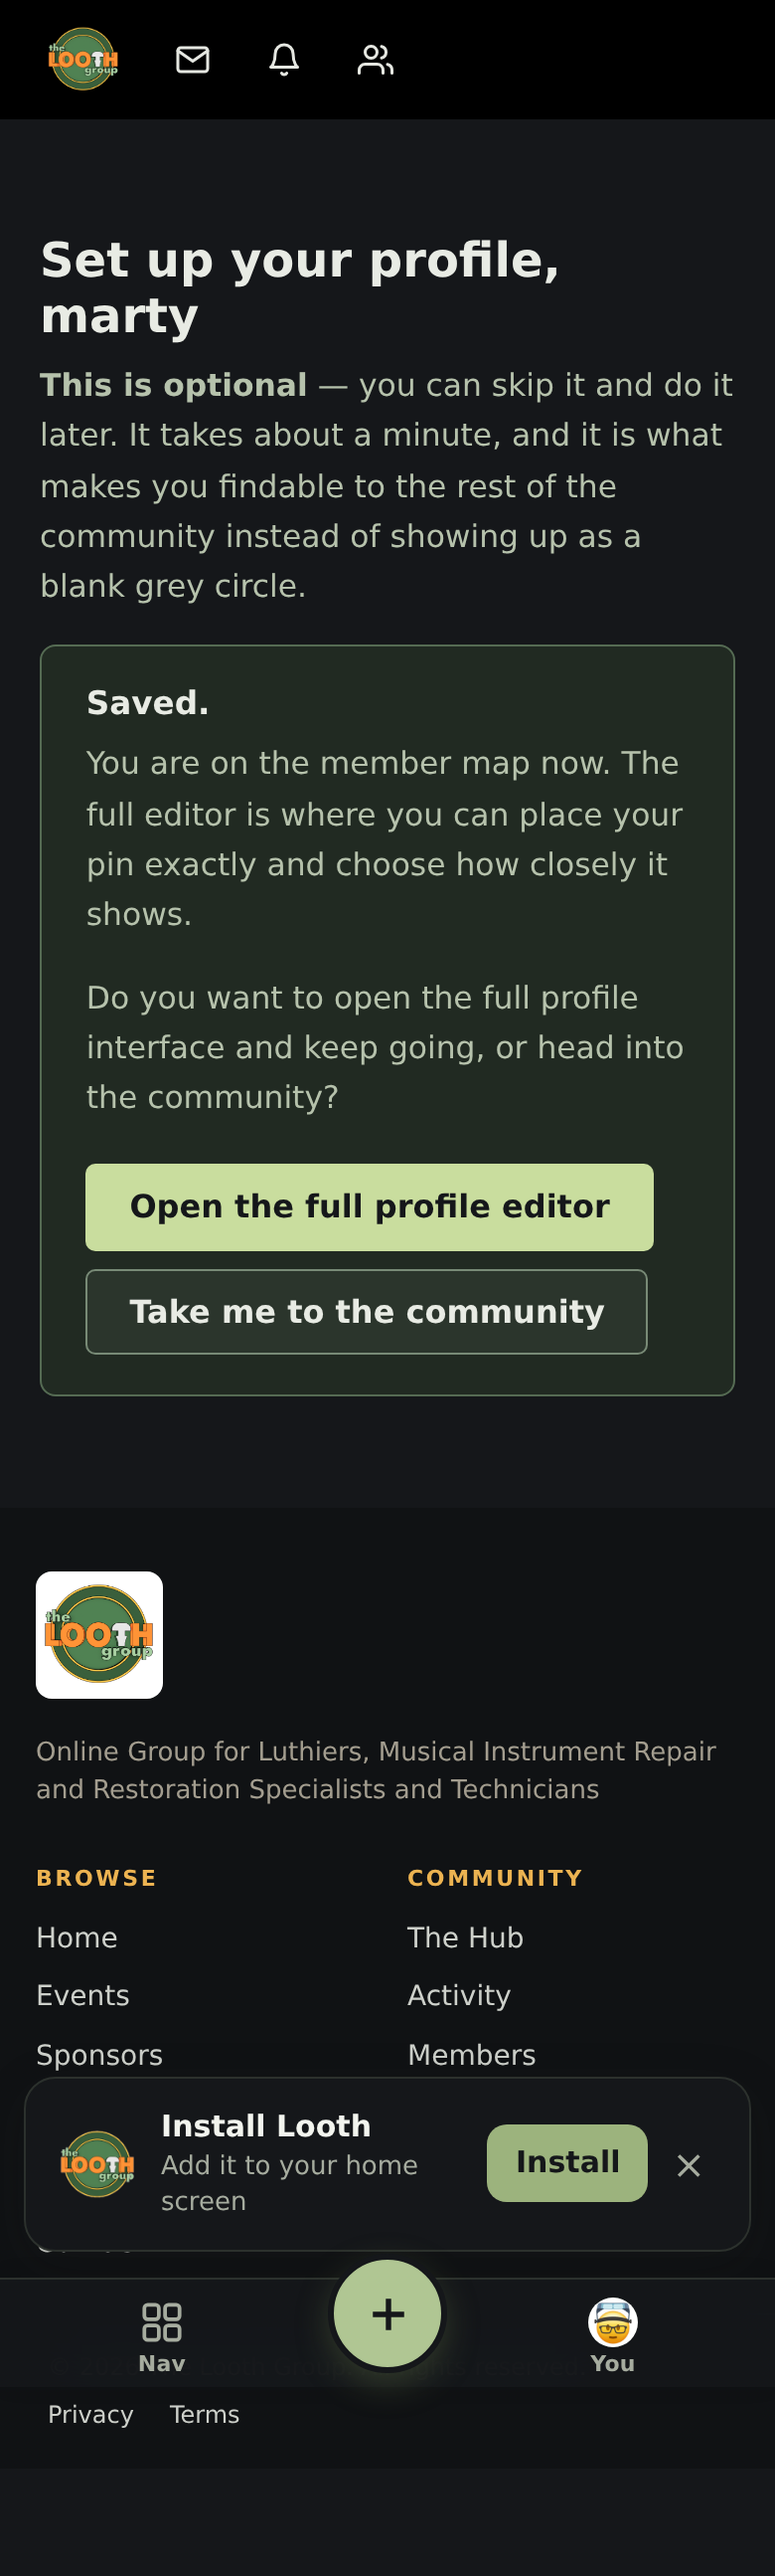
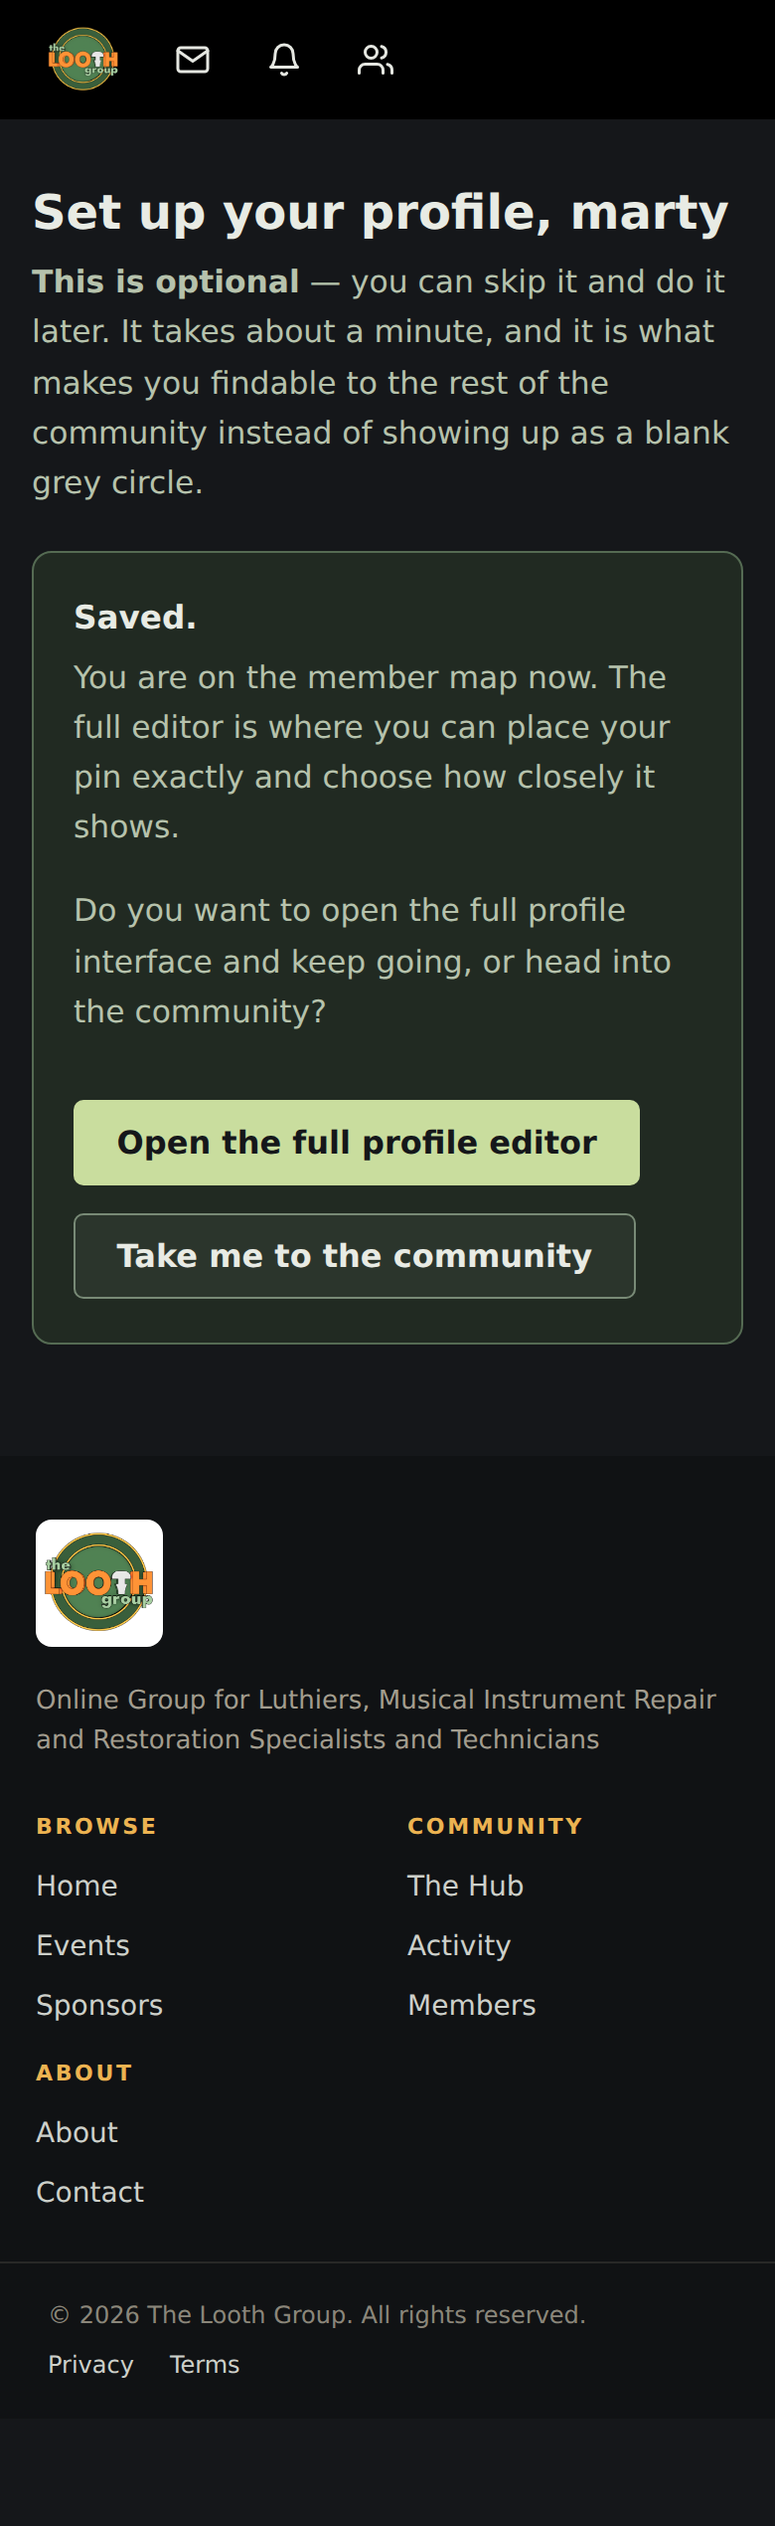
profile setup: spread the container per Ian, and stop the app chrome covering it
Ian, 2026-08-16, on the themes page: dark mode APPROVED ("Dark mode great for
signup screen"), with one revision — "Can we spread the container a bit. It's
cramped."

WIDER AND ROOMIER, both widths: .wrap 560 → 680px with a deeper bottom margin,
card padding 1.4/1.6em → 2/2.2em, label rhythm .9 → 1.5em, privacy inset 1.1 →
1.8em above and 1.3/1.4em within, actions 1.3 → 2em, inputs and the found panel
loosened to match, corners 8 → 10px.

BUT NOT ON A PHONE, where "generous" would have made it worse. 2.2em of card
padding either side of a 390px screen is not generosity, it is a narrower column
— the same air that opens the desktop card squeezes the mobile one. A ≤560px
block trims the GUTTERS while keeping the vertical rhythm, which is where the
cramped feeling actually came from.

⚠ AND THE FIRST RE-SHOOT WAS UNUSABLE, which the picture showed and the numbers
never would. The docroot injects /pwa.js into these snapshots; it mounts a fixed
bottom tabbar and an "Install Looth" banner, and on a tall captureBeyondViewport
stitch those render at their VIEWPORT position — straight across the middle of
the image. On mobile they sat directly on top of the privacy dials, which are the
control Ian is being asked to look at. A picture that hides its own subject under
someone else's furniture is worse than no picture, and this is the second time
this banner has landed on exactly the control a mock was built to show.
[…]

diff --git a/footer-mockups/profiles-alive/built/saved.html b/footer-mockups/profiles-alive/built/saved.html
@@ -5,15 +5,15 @@
 <link rel="stylesheet" href="/lg-shared/site-header.css?v=1785529924">
 <style>
   body{font-family:system-ui,sans-serif;background:#f6f6f2;margin:0;color:#1A1E12}
-  .wrap{max-width:560px;margin:56px auto;padding:0 1.25em}
+  .wrap{max-width:680px;margin:56px auto 72px;padding:0 1.5em}
   h2{margin:.2em 0 .35em}
   .lede{margin:0 0 1.1em;color:#3c4a28;font-size:.98em;line-height:1.6}
-  .card{padding:1.4em 1.6em;background:#d4e0b8;border:1px solid #87986A;border-radius:8px}
-  label{font-size:.92em;font-weight:600;display:block;margin-top:.9em}
-  .hint{font-size:.85em;color:#3c4a28;margin:.15em 0 .35em;line-height:1.5}
-  input[type=text]{width:100%;box-sizing:border-box;padding:.7em .8em;border:1px solid #87986A;
+  .card{padding:2em 2.2em;background:#d4e0b8;border:1px solid #87986A;border-radius:10px}
+  label{font-size:.92em;font-weight:600;display:block;margin-top:1.5em}
+  .hint{font-size:.85em;color:#3c4a28;margin:.2em 0 .6em;line-height:1.55}
+  input[type=text]{width:100%;box-sizing:border-box;padding:.8em .9em;border:1px solid #87986A;
     border-radius:5px;font-size:1em;background:#fff;color:#1A1E12;font-family:inherit}
-  .photorow{display:flex;align-items:center;gap:12px;margin:.45em 0 .2em}
+  .photorow{display:flex;align-items:center;gap:14px;margin:.5em 0 .3em}
   .avi{width:56px;height:56px;flex:0 0 56px;border-radius:50%;background:#c9c5b6;overflow:hidden;
     display:flex;align-items:center;justify-content:center}
   .avi img{width:100%;height:100%;object-fit:cover;display:block}
@@ -23,7 +23,7 @@
   input[type=file]{position:absolute;left:-9999px}
   /* Ian: skip is FIRST-CLASS. Same size, same row, same weight as Save — a
      different colour, not a lesser status. */
-  .actions{display:flex;flex-wrap:wrap;gap:.6em;margin-top:1.3em}
+  .actions{display:flex;flex-wrap:wrap;gap:.85em;margin-top:2em}
   .btn{padding:.7em 1.3em;border-radius:5px;font-size:1em;font-family:inherit;font-weight:600;
     cursor:pointer;border:1px solid transparent;text-decoration:none;display:inline-block}
   .btn--go{background:#1A1E12;color:#fff}
@@ -34,16 +34,23 @@
   .msg.ok{color:#3f5c22}
   .addr{font-family:ui-monospace,SFMono-Regular,Menlo,monospace;background:#eef3e2;
     padding:.05em .35em;border-radius:3px}
-  .privacy{margin-top:1.1em;padding:.9em 1em;background:#eef3e2;border:1px solid #c3d2a4;
+  .privacy{margin-top:1.8em;padding:1.3em 1.4em;background:#eef3e2;border:1px solid #c3d2a4;
     border-radius:6px}
-  .privacy__h{font-weight:700;font-size:.94em;margin-bottom:.2em}
+  .privacy__h{font-weight:700;font-size:.94em;margin-bottom:.35em}
   .privacy label{margin-top:.55em}
-  select{width:100%;box-sizing:border-box;padding:.6em .7em;border:1px solid #87986A;
+  select{width:100%;box-sizing:border-box;padding:.7em .8em;border:1px solid #87986A;
     border-radius:5px;font-size:1em;background:#fff;color:#1A1E12;font-family:inherit}
-  .found{padding:1.2em 1.4em;background:#fff;border:1px solid #e3ddd0;border-radius:8px;margin-top:1em}
+  .found{padding:1.7em 1.9em;background:#fff;border:1px solid #e3ddd0;border-radius:10px;margin-top:1.4em}
   .found h3{margin:0 0 .5em;font-size:1.02em}
   .found ol{margin:.4em 0 0;padding-left:1.2em}
   .found li{margin:.35em 0;line-height:1.55;font-size:.95em}
+
+  @media (max-width:560px){
+    .wrap{margin:32px auto 56px;padding:0 1em}
+    .card{padding:1.6em 1.25em}
+    .privacy{padding:1.15em 1em}
+    .found{padding:1.4em 1.25em}
+  }
 
   /* ── DARK ─────────────────────────────────────────────────────────────────
      Ian, 2026-08-16, from a screenshot: the section headers were invisible.

diff --git a/footer-mockups/profiles-alive/built/skipped.html b/footer-mockups/profiles-alive/built/skipped.html
@@ -5,15 +5,15 @@
 <link rel="stylesheet" href="/lg-shared/site-header.css?v=1785529924">
 <style>
   body{font-family:system-ui,sans-serif;background:#f6f6f2;margin:0;color:#1A1E12}
-  .wrap{max-width:560px;margin:56px auto;padding:0 1.25em}
+  .wrap{max-width:680px;margin:56px auto 72px;padding:0 1.5em}
   h2{margin:.2em 0 .35em}
   .lede{margin:0 0 1.1em;color:#3c4a28;font-size:.98em;line-height:1.6}
-  .card{padding:1.4em 1.6em;background:#d4e0b8;border:1px solid #87986A;border-radius:8px}
-  label{font-size:.92em;font-weight:600;display:block;margin-top:.9em}
-  .hint{font-size:.85em;color:#3c4a28;margin:.15em 0 .35em;line-height:1.5}
-  input[type=text]{width:100%;box-sizing:border-box;padding:.7em .8em;border:1px solid #87986A;
+  .card{padding:2em 2.2em;background:#d4e0b8;border:1px solid #87986A;border-radius:10px}
+  label{font-size:.92em;font-weight:600;display:block;margin-top:1.5em}
+  .hint{font-size:.85em;color:#3c4a28;margin:.2em 0 .6em;line-height:1.55}
+  input[type=text]{width:100%;box-sizing:border-box;padding:.8em .9em;border:1px solid #87986A;
     border-radius:5px;font-size:1em;background:#fff;color:#1A1E12;font-family:inherit}
-  .photorow{display:flex;align-items:center;gap:12px;margin:.45em 0 .2em}
+  .photorow{display:flex;align-items:center;gap:14px;margin:.5em 0 .3em}
   .avi{width:56px;height:56px;flex:0 0 56px;border-radius:50%;background:#c9c5b6;overflow:hidden;
     display:flex;align-items:center;justify-content:center}
   .avi img{width:100%;height:100%;object-fit:cover;display:block}
@@ -23,7 +23,7 @@
   input[type=file]{position:absolute;left:-9999px}
   /* Ian: skip is FIRST-CLASS. Same size, same row, same weight as Save — a
      different colour, not a lesser status. */
-  .actions{display:flex;flex-wrap:wrap;gap:.6em;margin-top:1.3em}
+  .actions{display:flex;flex-wrap:wrap;gap:.85em;margin-top:2em}
   .btn{padding:.7em 1.3em;border-radius:5px;font-size:1em;font-family:inherit;font-weight:600;
     cursor:pointer;border:1px solid transparent;text-decoration:none;display:inline-block}
   .btn--go{background:#1A1E12;color:#fff}
@@ -34,16 +34,23 @@
   .msg.ok{color:#3f5c22}
   .addr{font-family:ui-monospace,SFMono-Regular,Menlo,monospace;background:#eef3e2;
     padding:.05em .35em;border-radius:3px}
-  .privacy{margin-top:1.1em;padding:.9em 1em;background:#eef3e2;border:1px solid #c3d2a4;
+  .privacy{margin-top:1.8em;padding:1.3em 1.4em;background:#eef3e2;border:1px solid #c3d2a4;
     border-radius:6px}
-  .privacy__h{font-weight:700;font-size:.94em;margin-bottom:.2em}
+  .privacy__h{font-weight:700;font-size:.94em;margin-bottom:.35em}
   .privacy label{margin-top:.55em}
-  select{width:100%;box-sizing:border-box;padding:.6em .7em;border:1px solid #87986A;
+  select{width:100%;box-sizing:border-box;padding:.7em .8em;border:1px solid #87986A;
     border-radius:5px;font-size:1em;background:#fff;color:#1A1E12;font-family:inherit}
-  .found{padding:1.2em 1.4em;background:#fff;border:1px solid #e3ddd0;border-radius:8px;margin-top:1em}
+  .found{padding:1.7em 1.9em;background:#fff;border:1px solid #e3ddd0;border-radius:10px;margin-top:1.4em}
   .found h3{margin:0 0 .5em;font-size:1.02em}
   .found ol{margin:.4em 0 0;padding-left:1.2em}
   .found li{margin:.35em 0;line-height:1.55;font-size:.95em}
+
+  @media (max-width:560px){
+    .wrap{margin:32px auto 56px;padding:0 1em}
+    .card{padding:1.6em 1.25em}
+    .privacy{padding:1.15em 1em}
+    .found{padding:1.4em 1.25em}
+  }
 
   /* ── DARK ─────────────────────────────────────────────────────────────────
      Ian, 2026-08-16, from a screenshot: the section headers were invisible.

diff --git a/footer-mockups/profiles-alive/built/step.html b/footer-mockups/profiles-alive/built/step.html
@@ -5,15 +5,15 @@
 <link rel="stylesheet" href="/lg-shared/site-header.css?v=1785529924">
 <style>
   body{font-family:system-ui,sans-serif;background:#f6f6f2;margin:0;color:#1A1E12}
-  .wrap{max-width:560px;margin:56px auto;padding:0 1.25em}
+  .wrap{max-width:680px;margin:56px auto 72px;padding:0 1.5em}
   h2{margin:.2em 0 .35em}
   .lede{margin:0 0 1.1em;color:#3c4a28;font-size:.98em;line-height:1.6}
-  .card{padding:1.4em 1.6em;background:#d4e0b8;border:1px solid #87986A;border-radius:8px}
-  label{font-size:.92em;font-weight:600;display:block;margin-top:.9em}
-  .hint{font-size:.85em;color:#3c4a28;margin:.15em 0 .35em;line-height:1.5}
-  input[type=text]{width:100%;box-sizing:border-box;padding:.7em .8em;border:1px solid #87986A;
+  .card{padding:2em 2.2em;background:#d4e0b8;border:1px solid #87986A;border-radius:10px}
+  label{font-size:.92em;font-weight:600;display:block;margin-top:1.5em}
+  .hint{font-size:.85em;color:#3c4a28;margin:.2em 0 .6em;line-height:1.55}
+  input[type=text]{width:100%;box-sizing:border-box;padding:.8em .9em;border:1px solid #87986A;
     border-radius:5px;font-size:1em;background:#fff;color:#1A1E12;font-family:inherit}
-  .photorow{display:flex;align-items:center;gap:12px;margin:.45em 0 .2em}
+  .photorow{display:flex;align-items:center;gap:14px;margin:.5em 0 .3em}
   .avi{width:56px;height:56px;flex:0 0 56px;border-radius:50%;background:#c9c5b6;overflow:hidden;
     display:flex;align-items:center;justify-content:center}
   .avi img{width:100%;height:100%;object-fit:cover;display:block}
@@ -23,7 +23,7 @@
   input[type=file]{position:absolute;left:-9999px}
   /* Ian: skip is FIRST-CLASS. Same size, same row, same weight as Save — a
      different colour, not a lesser status. */
-  .actions{display:flex;flex-wrap:wrap;gap:.6em;margin-top:1.3em}
+  .actions{display:flex;flex-wrap:wrap;gap:.85em;margin-top:2em}
   .btn{padding:.7em 1.3em;border-radius:5px;font-size:1em;font-family:inherit;font-weight:600;
     cursor:pointer;border:1px solid transparent;text-decoration:none;display:inline-block}
   .btn--go{background:#1A1E12;color:#fff}
@@ -34,16 +34,23 @@
   .msg.ok{color:#3f5c22}
   .addr{font-family:ui-monospace,SFMono-Regular,Menlo,monospace;background:#eef3e2;
     padding:.05em .35em;border-radius:3px}
-  .privacy{margin-top:1.1em;padding:.9em 1em;background:#eef3e2;border:1px solid #c3d2a4;
+  .privacy{margin-top:1.8em;padding:1.3em 1.4em;background:#eef3e2;border:1px solid #c3d2a4;
     border-radius:6px}
-  .privacy__h{font-weight:700;font-size:.94em;margin-bottom:.2em}
+  .privacy__h{font-weight:700;font-size:.94em;margin-bottom:.35em}
   .privacy label{margin-top:.55em}
-  select{width:100%;box-sizing:border-box;padding:.6em .7em;border:1px solid #87986A;
+  select{width:100%;box-sizing:border-box;padding:.7em .8em;border:1px solid #87986A;
     border-radius:5px;font-size:1em;background:#fff;color:#1A1E12;font-family:inherit}
-  .found{padding:1.2em 1.4em;background:#fff;border:1px solid #e3ddd0;border-radius:8px;margin-top:1em}
+  .found{padding:1.7em 1.9em;background:#fff;border:1px solid #e3ddd0;border-radius:10px;margin-top:1.4em}
   .found h3{margin:0 0 .5em;font-size:1.02em}
   .found ol{margin:.4em 0 0;padding-left:1.2em}
   .found li{margin:.35em 0;line-height:1.55;font-size:.95em}
+
+  @media (max-width:560px){
+    .wrap{margin:32px auto 56px;padding:0 1em}
+    .card{padding:1.6em 1.25em}
+    .privacy{padding:1.15em 1em}
+    .found{padding:1.4em 1.25em}
+  }
 
   /* ── DARK ─────────────────────────────────────────────────────────────────
      Ian, 2026-08-16, from a screenshot: the section headers were invisible.

diff --git a/footer-mockups/profiles-alive/themes.html b/footer-mockups/profiles-alive/themes.html
@@ -25,7 +25,10 @@
  img{width:100%;height:auto;border:1px solid #c9c5b6;border-radius:6px;display:block}
 </style></head><body>
 <div class="head">THE REAL SCREENS, PHOTOGRAPHED IN BOTH THEMES — not drawings. Both are
- shown side by side so you do not have to switch your own theme to check.</div>
+ shown side by side so you do not have to switch your own theme to check.<br>
+ The app's own bottom nav and “Install Looth” banner are hidden in these shots — they float
+ over the middle of a full-page capture and were covering the privacy dials. Everything you
+ see below is the step itself.</div>
 <div class="wrap">
 <h1>The sign-up step, light and dark</h1>
 <p class="lede">You reported the section headers were invisible in dark mode. They were:

diff --git a/platform/mu-plugins/lg-profile-setup.php b/platform/mu-plugins/lg-profile-setup.php
@@ -168,15 +168,15 @@ add_action('init', function () {
 <link rel="stylesheet" href="/lg-shared/site-header.css?v=<?php echo $css_ver; ?>">
 <style>
   body{font-family:system-ui,sans-serif;background:#f6f6f2;margin:0;color:#1A1E12}
-  .wrap{max-width:560px;margin:56px auto;padding:0 1.25em}
+  .wrap{max-width:680px;margin:56px auto 72px;padding:0 1.5em}
   h2{margin:.2em 0 .35em}
   .lede{margin:0 0 1.1em;color:#3c4a28;font-size:.98em;line-height:1.6}
-  .card{padding:1.4em 1.6em;background:#d4e0b8;border:1px solid #87986A;border-radius:8px}
-  label{font-size:.92em;font-weight:600;display:block;margin-top:.9em}
-  .hint{font-size:.85em;color:#3c4a28;margin:.15em 0 .35em;line-height:1.5}
-  input[type=text]{width:100%;box-sizing:border-box;padding:.7em .8em;border:1px solid #87986A;
+  .card{padding:2em 2.2em;background:#d4e0b8;border:1px solid #87986A;border-radius:10px}
+  label{font-size:.92em;font-weight:600;display:block;margin-top:1.5em}
+  .hint{font-size:.85em;color:#3c4a28;margin:.2em 0 .6em;line-height:1.55}
+  input[type=text]{width:100%;box-sizing:border-box;padding:.8em .9em;border:1px solid #87986A;
     border-radius:5px;font-size:1em;background:#fff;color:#1A1E12;font-family:inherit}
-  .photorow{display:flex;align-items:center;gap:12px;margin:.45em 0 .2em}
+  .photorow{display:flex;align-items:center;gap:14px;margin:.5em 0 .3em}
   .avi{width:56px;height:56px;flex:0 0 56px;border-radius:50%;background:#c9c5b6;overflow:hidden;
     display:flex;align-items:center;justify-content:center}
   .avi img{width:100%;height:100%;object-fit:cover;display:block}
@@ -186,7 +186,7 @@ add_action('init', function () {
   input[type=file]{position:absolute;left:-9999px}
   /* Ian: skip is FIRST-CLASS. Same size, same row, same weight as Save — a
      different colour, not a lesser status. */
-  .actions{display:flex;flex-wrap:wrap;gap:.6em;margin-top:1.3em}
+  .actions{display:flex;flex-wrap:wrap;gap:.85em;margin-top:2em}
   .btn{padding:.7em 1.3em;border-radius:5px;font-size:1em;font-family:inherit;font-weight:600;
     cursor:pointer;border:1px solid transparent;text-decoration:none;display:inline-block}
   .btn--go{background:#1A1E12;color:#fff}
@@ -197,16 +197,23 @@ add_action('init', function () {
   .msg.ok{color:#3f5c22}
   .addr{font-family:ui-monospace,SFMono-Regular,Menlo,monospace;background:#eef3e2;
     padding:.05em .35em;border-radius:3px}
-  .privacy{margin-top:1.1em;padding:.9em 1em;background:#eef3e2;border:1px solid #c3d2a4;
+  .privacy{margin-top:1.8em;padding:1.3em 1.4em;background:#eef3e2;border:1px solid #c3d2a4;
     border-radius:6px}
-  .privacy__h{font-weight:700;font-size:.94em;margin-bottom:.2em}
+  .privacy__h{font-weight:700;font-size:.94em;margin-bottom:.35em}
   .privacy label{margin-top:.55em}
-  select{width:100%;box-sizing:border-box;padding:.6em .7em;border:1px solid #87986A;
+  select{width:100%;box-sizing:border-box;padding:.7em .8em;border:1px solid #87986A;
     border-radius:5px;font-size:1em;background:#fff;color:#1A1E12;font-family:inherit}
-  .found{padding:1.2em 1.4em;background:#fff;border:1px solid #e3ddd0;border-radius:8px;margin-top:1em}
+  .found{padding:1.7em 1.9em;background:#fff;border:1px solid #e3ddd0;border-radius:10px;margin-top:1.4em}
   .found h3{margin:0 0 .5em;font-size:1.02em}
   .found ol{margin:.4em 0 0;padding-left:1.2em}
   .found li{margin:.35em 0;line-height:1.55;font-size:.95em}
+
+  @media (max-width:560px){
+    .wrap{margin:32px auto 56px;padding:0 1em}
+    .card{padding:1.6em 1.25em}
+    .privacy{padding:1.15em 1em}
+    .found{padding:1.4em 1.25em}
+  }
 
   /* ── DARK ─────────────────────────────────────────────────────────────────
      Ian, 2026-08-16, from a screenshot: the section headers were invisible.

diff --git a/tools/publish-profile-setup-themes.py b/tools/publish-profile-setup-themes.py
@@ -113,12 +113,38 @@ def main():
                     if mode == "dark" and theme != "dark":
                         sys.exit(f"LIVENESS FAIL {key}/{dev}/{mode}: theme resolved {theme!r}")
 
+                    # HIDE INJECTED APP CHROME BEFORE THE SHUTTER. The docroot
+                    # injects /pwa.js into these snapshots, which mounts a fixed
+                    # bottom tabbar and an "Install Looth" banner. On a tall
+                    # captureBeyondViewport stitch they render at their viewport
+                    # position — i.e. straight across the MIDDLE of the image —
+                    # and in the first mobile run they sat directly on top of the
+                    # privacy dials, which are the control Ian is being asked to
+                    # look at. A picture that hides the subject under someone
+                    # else's furniture is worse than no picture.
+                    #
+                    # Done by COMPUTED position:fixed rather than by class name,
+                    # so it keeps working when the chrome is renamed, and scoped
+                    # to elements OUTSIDE .wrap so nothing belonging to the step
+                    # itself can be hidden by accident.
+                    hidden = js('''(function(){
+                      var w = document.querySelector('.wrap'), n = 0;
+                      Array.prototype.forEach.call(document.querySelectorAll('body *'), function(el){
+                        if (w && (el === w || w.contains(el))) return;
+                        var cs = getComputedStyle(el);
+                        if (cs.position === 'fixed' && cs.display !== 'none') {
+                          el.style.setProperty('display','none','important'); n++;
+                        }
+                      });
+                      return n;
+                    })()''')
+
                     name = f"{key}__{mode}__{dev}.png"
                     r = call("Page.captureScreenshot", format="png", captureBeyondViewport=True)
                     data = base64.b64decode(r["data"])
                     open(os.path.join(SHOTS, name), "wb").write(data)
                     made.append((key, mode, dev, name, len(data)))
-                    print(f"  {name}  {len(data)//1024}KB  theme={theme}")
+                    print(f"  {name}  {len(data)//1024}KB  theme={theme}  chrome_hidden={hidden}")
     finally:
         # Never leave the shared chrome profile stamped dark.
         try:
@@ -176,7 +202,10 @@ def main():
  img{{width:100%;height:auto;border:1px solid #c9c5b6;border-radius:6px;display:block}}
 </style></head><body>
 <div class="head">THE REAL SCREENS, PHOTOGRAPHED IN BOTH THEMES — not drawings. Both are
- shown side by side so you do not have to switch your own theme to check.</div>
+ shown side by side so you do not have to switch your own theme to check.<br>
+ The app's own bottom nav and “Install Looth” banner are hidden in these shots — they float
+ over the middle of a full-page capture and were covering the privacy dials. Everything you
+ see below is the step itself.</div>
 <div class="wrap">
 <h1>The sign-up step, light and dark</h1>
 <p class="lede">You reported the section headers were invisible in dark mode. They were:
